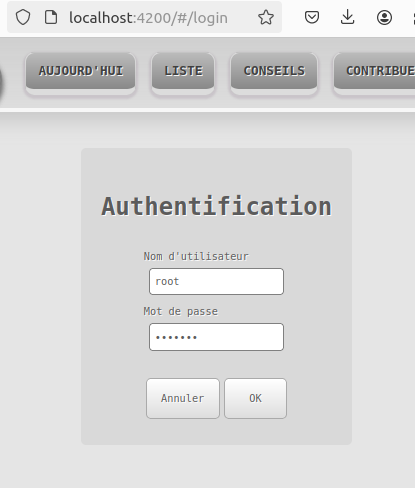
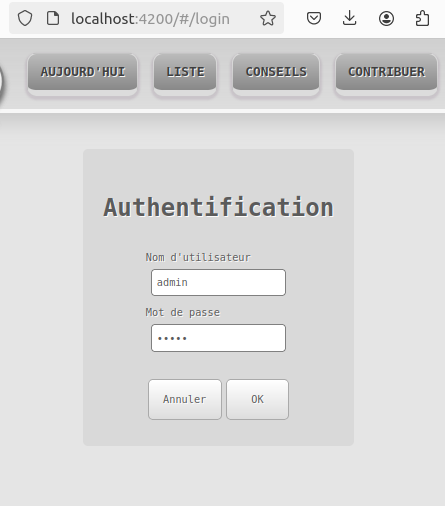
refactor: change user/password

diff --git a/api/src/config.dev.php b/api/src/config.dev.php
@@ -2,11 +2,11 @@
 
 define('DB_HOST', 'db');
 define('DB_NAME', 'jokes');
-define('DB_USER', 'root');
-define('DB_PASS', 'devonly');
+define('DB_USER', 'admin');
+define('DB_PASS', 'admin');
 
-define('ADMIN_USER', 'root');
-define('ADMIN_PASS', hash('sha256', 'devonly'));
+define('ADMIN_USER', 'admin');
+define('ADMIN_PASS', hash('sha256', 'admin'));
 define('ADMIN_EMAIL', '');
 define('ACCESS_CONTROL_ALLOW_ORIGIN', '*' );
 #define('COOKIE_DOMAIN', 'my.domain.com');

diff --git a/README.md b/README.md
@@ -34,8 +34,7 @@ Browse `https://localhost:4200/`
 ### Post-launch (do once)
 
 Browse `https://localhost:4200/#/login` and login with the following credentials:
-- user: `root`
-- pass: `devonly`
+- username/pass: `admin`/`admin`
 
 <div align="center">
   <img height=300 src="./docs/login-page.png" />
